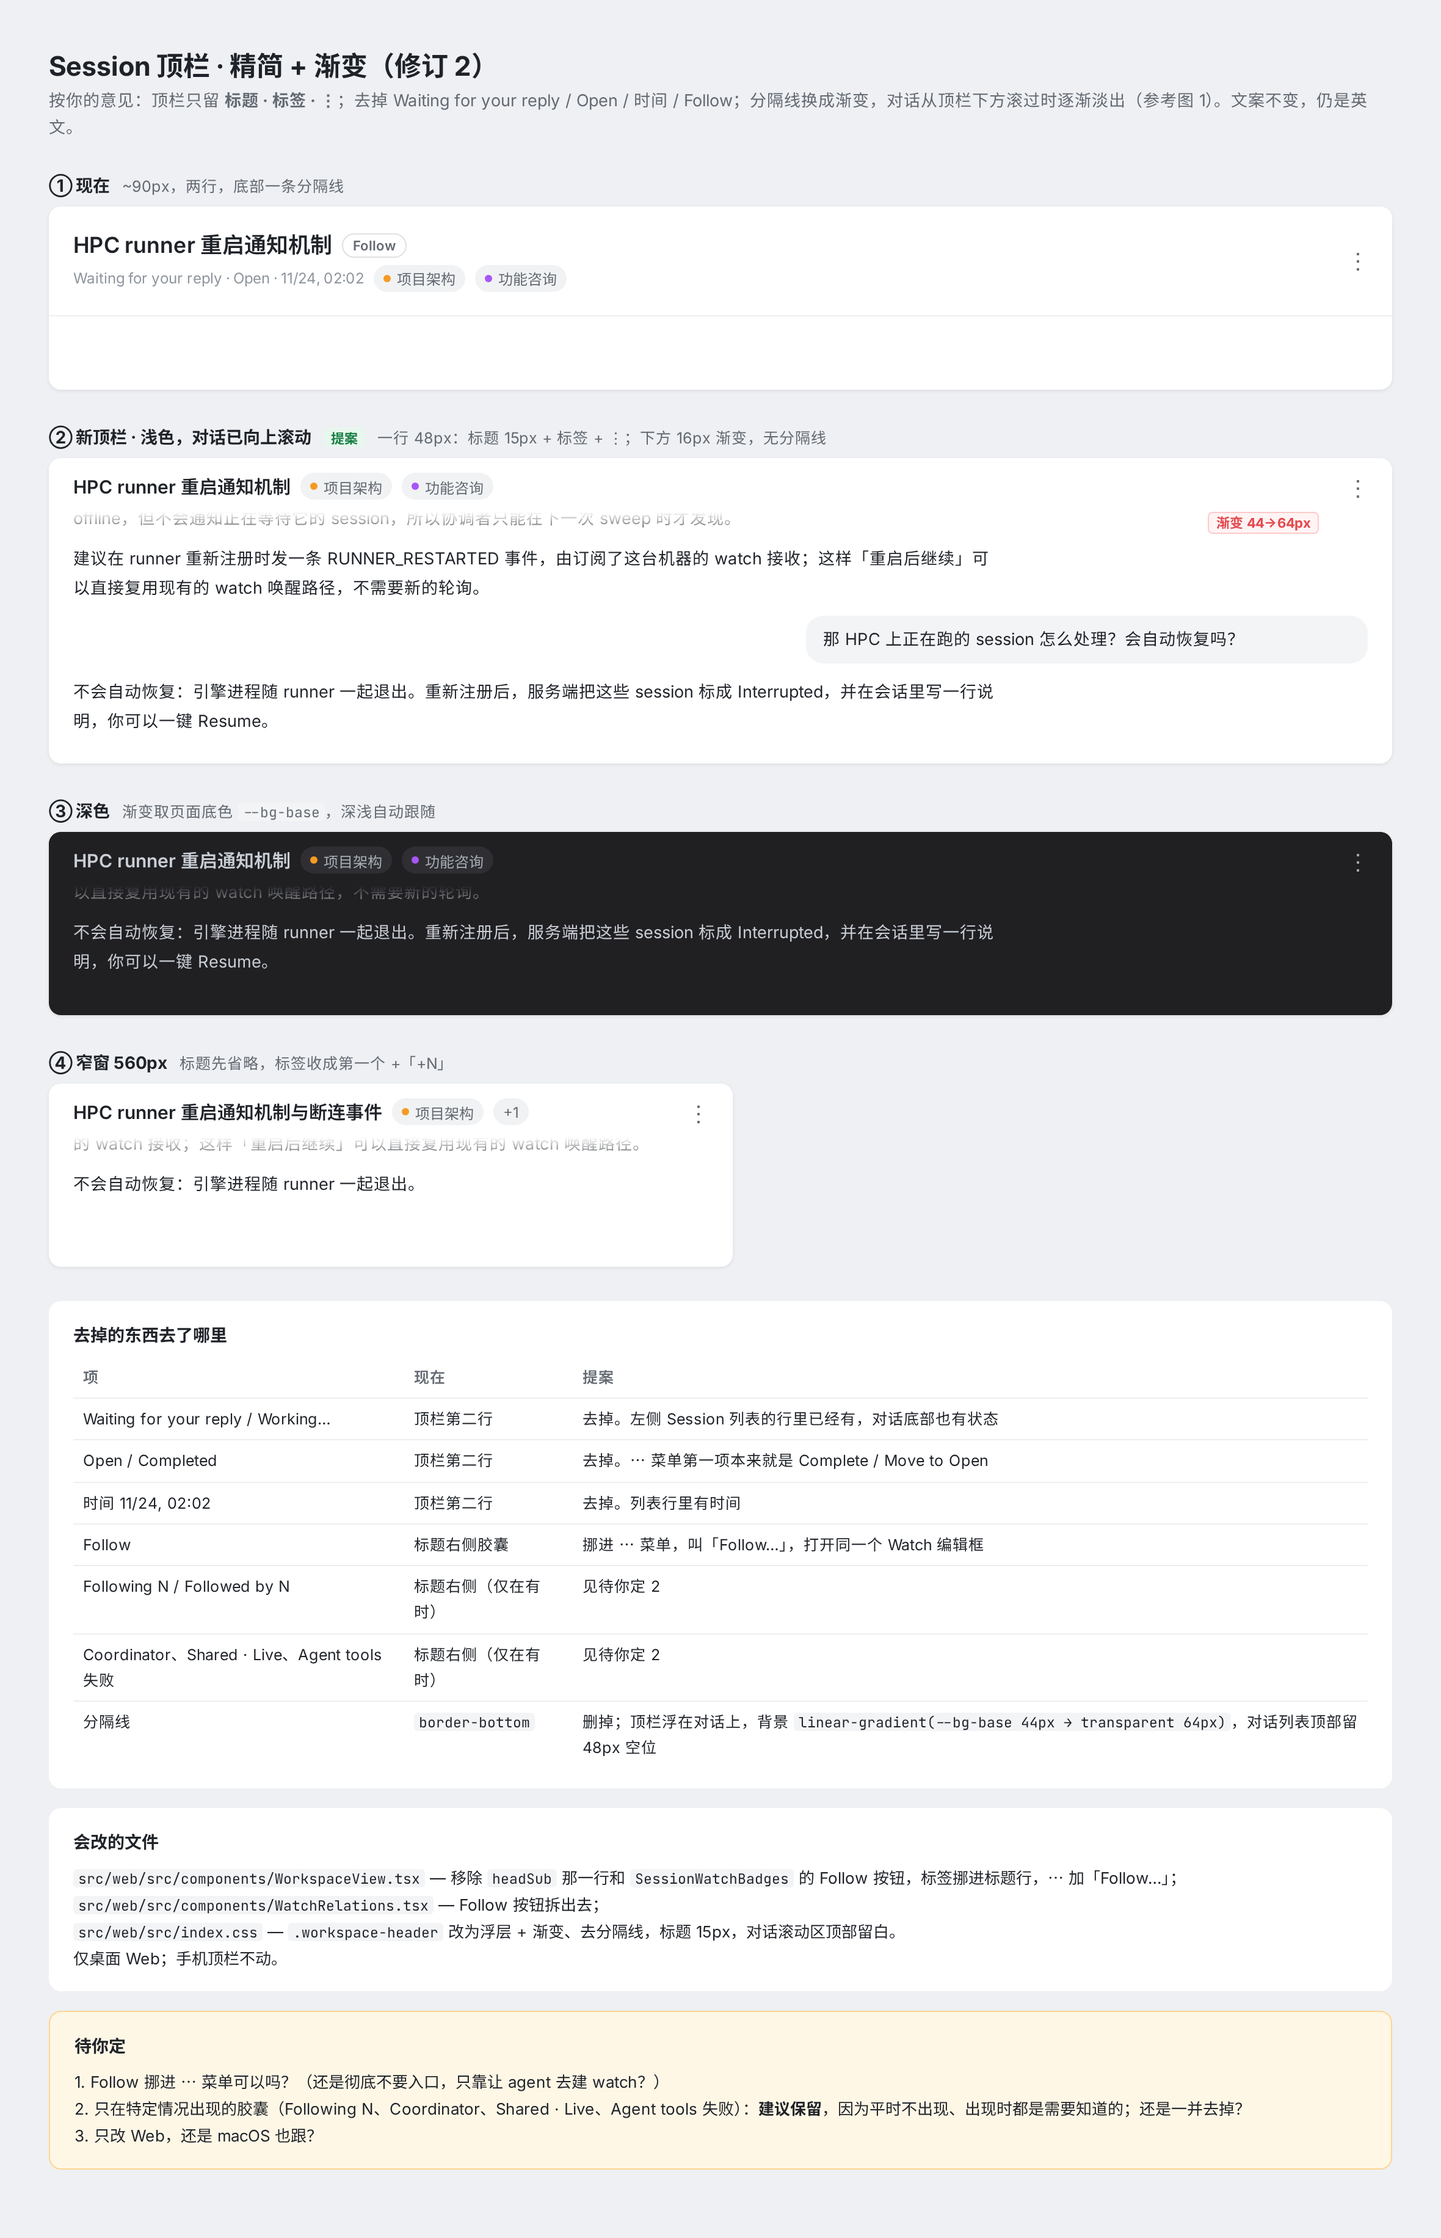
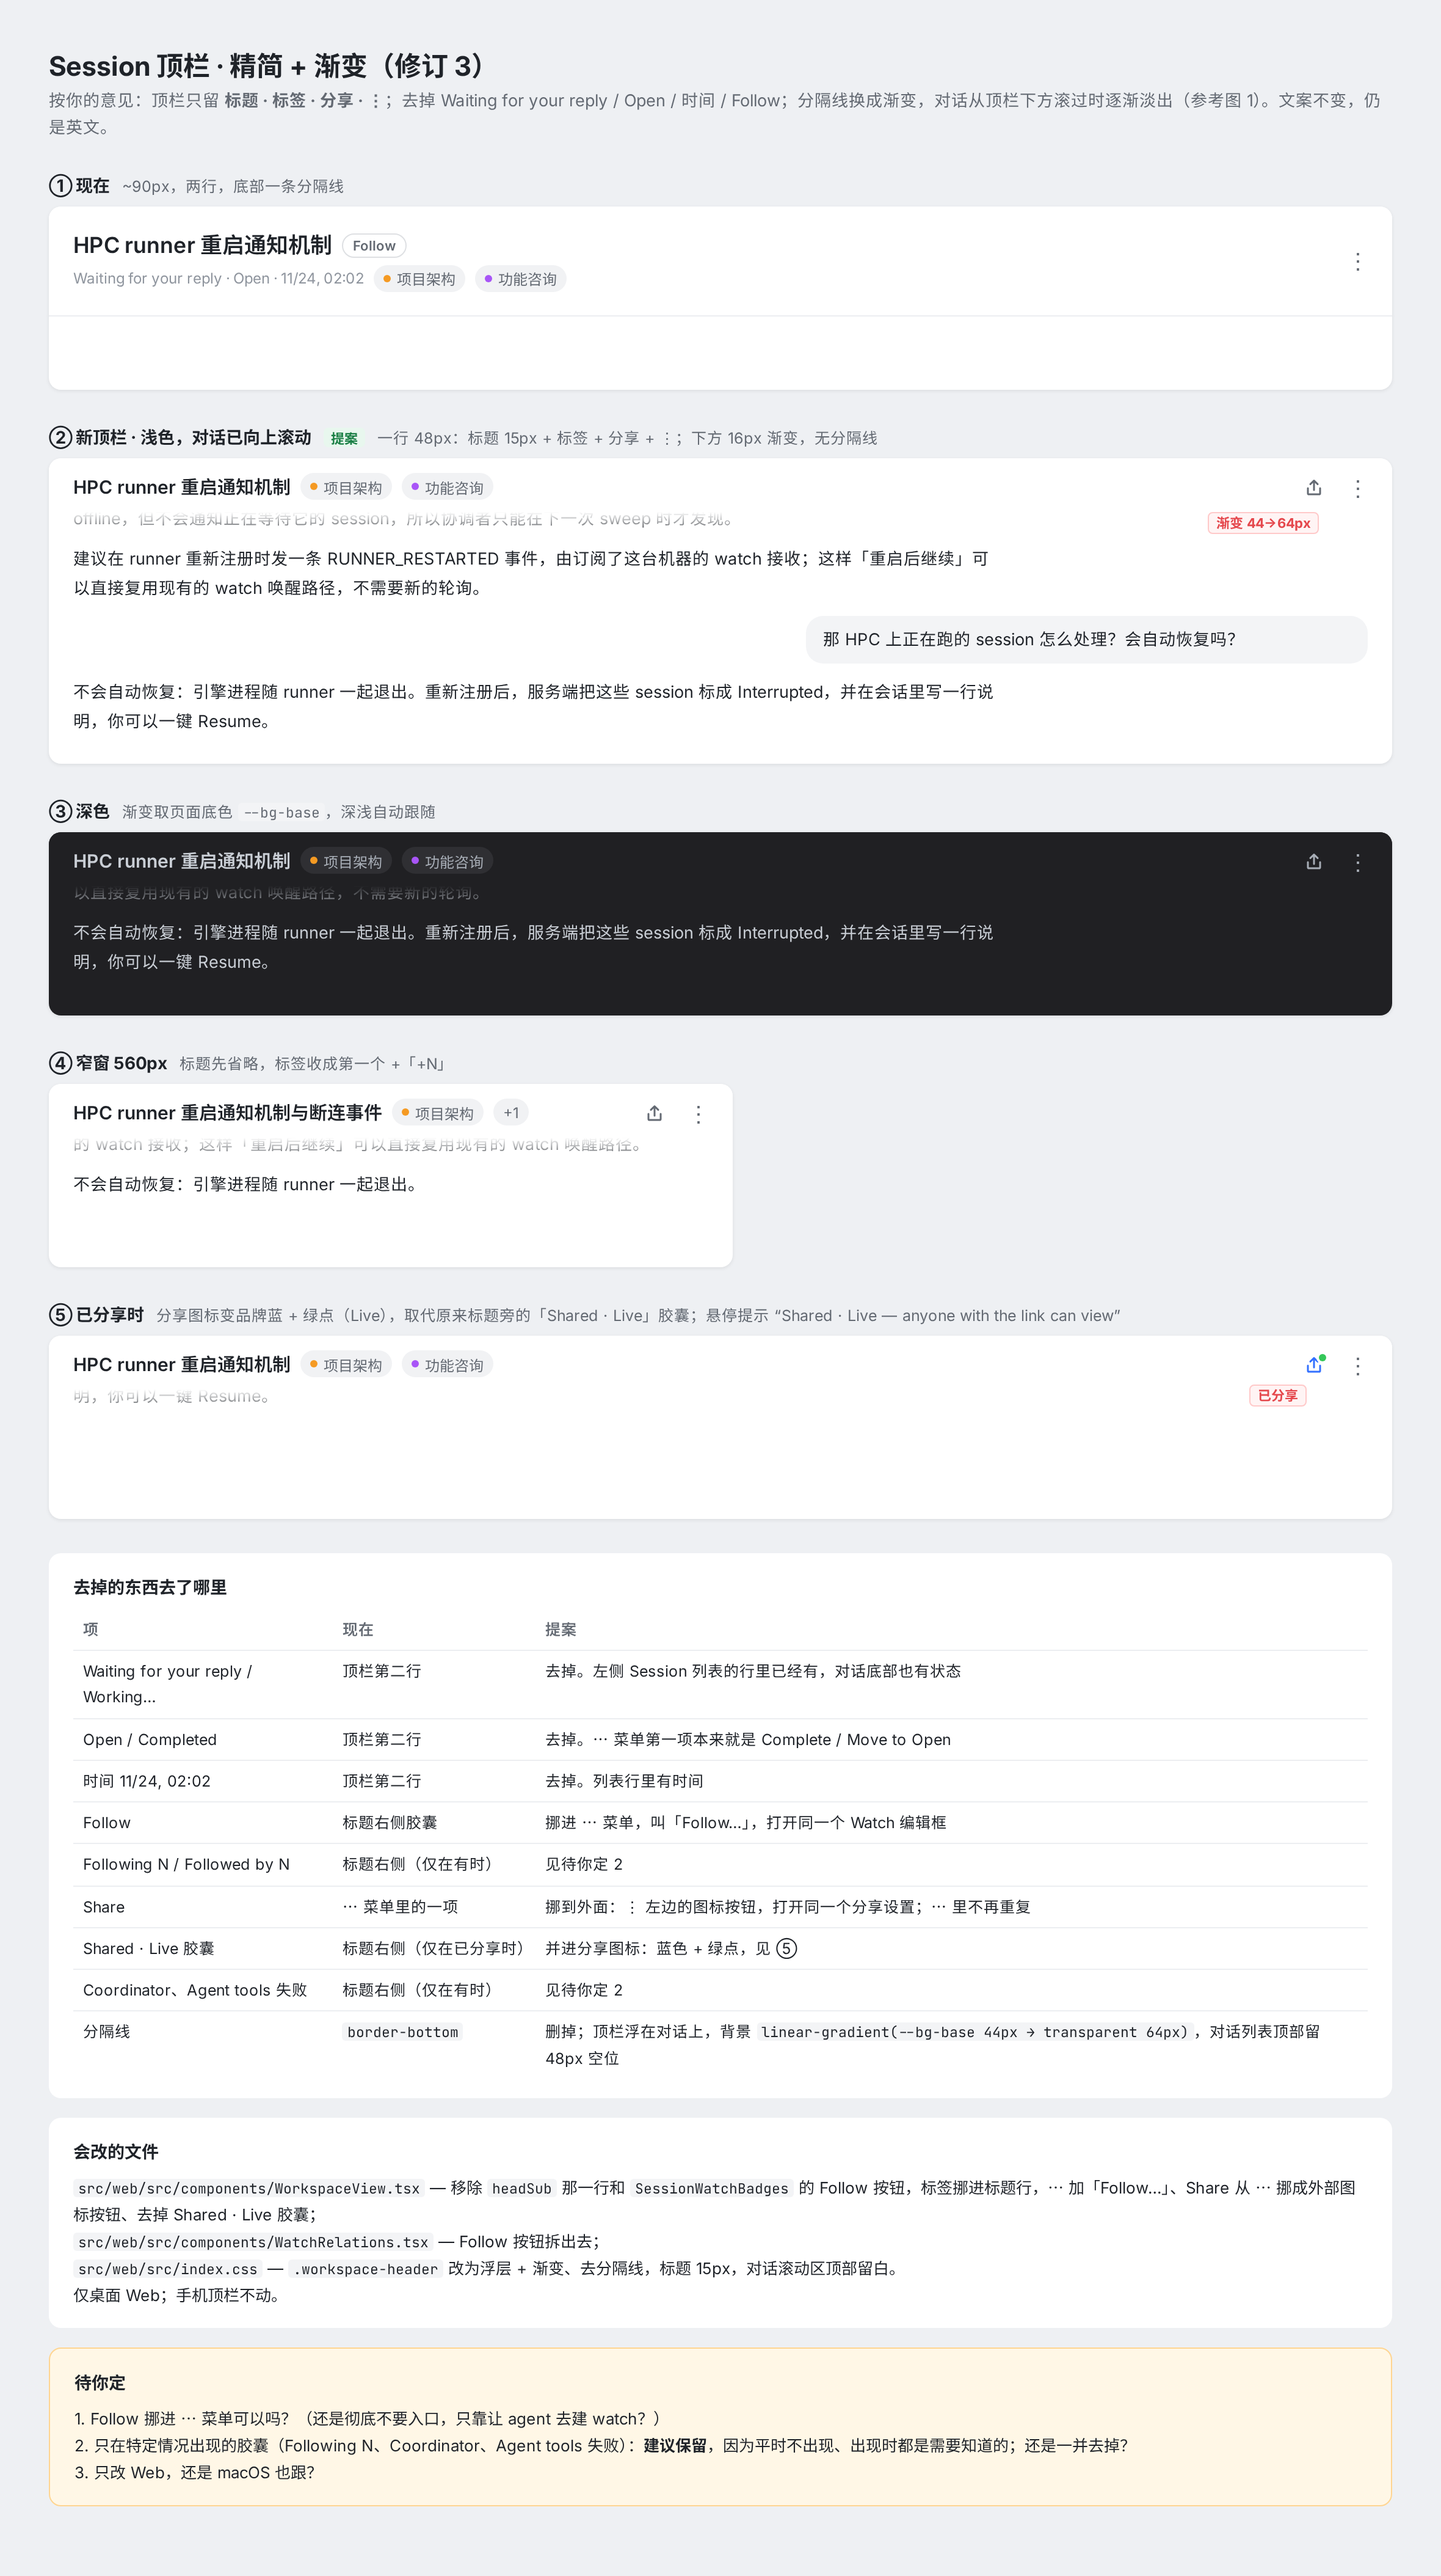
docs(mocks): session header revision 3, Share as a button beside ⋮
The owner wants Share out of the ⋯ menu; the icon turns blue with a Live dot once shared and replaces the Shared · Live pill.

diff --git a/docs/mocks/session-header-compact/board.html b/docs/mocks/session-header-compact/board.html
@@ -21,6 +21,8 @@ h1{font-size:22px;margin:0 0 4px}
 .chip{flex:none;display:inline-flex;align-items:center;gap:5px;padding:0 8px;height:22px;border-radius:999px;background:var(--chip);color:var(--t2);font-size:12px}
 .dot{width:6px;height:6px;border-radius:50%}
 .sp{flex:1}
+.share{flex:none;position:relative;width:28px;height:24px;display:grid;place-items:center;color:var(--t2);border-radius:6px}
+.share.on{color:#3370ff}.share.on i{position:absolute;right:4px;top:3px;width:6px;height:6px;border-radius:50%;background:#34c759;box-shadow:0 0 0 2px var(--bg)}
 .kebab{flex:none;width:28px;height:24px;display:grid;place-items:center;color:var(--t2);font-size:18px}
 .old{font-size:12px;color:var(--t3);white-space:nowrap}
 .pill{flex:none;height:20px;padding:0 8px;border:1px solid #dee0e3;border-radius:999px;font-size:11px;font-weight:600;color:var(--t2);display:inline-flex;align-items:center}
@@ -37,8 +39,8 @@ th{color:#646a73;font-weight:600;border-top:0}
 code{font-family:'JetBrains Mono',monospace;font-size:11.5px;background:#f3f4f6;padding:0 4px;border-radius:3px}
 .pend{background:#fff7e6;border:1px solid #ffd591}
 </style></head><body><div class="board">
-<h1>Session 顶栏 · 精简 + 渐变（修订 2）</h1>
-<p class="lead">按你的意见：顶栏只留 <b>标题 · 标签 · ⋮</b>；去掉 Waiting for your reply / Open / 时间 / Follow；分隔线换成渐变，对话从顶栏下方滚过时逐渐淡出（参考图 1）。文案不变，仍是英文。</p>
+<h1>Session 顶栏 · 精简 + 渐变（修订 3）</h1>
+<p class="lead">按你的意见：顶栏只留 <b>标题 · 标签 · 分享 · ⋮</b>；去掉 Waiting for your reply / Open / 时间 / Follow；分隔线换成渐变，对话从顶栏下方滚过时逐渐淡出（参考图 1）。文案不变，仍是英文。</p>
 
 <div class="frame"><div class="ftitle">① 现在 <small>~90px，两行，底部一条分隔线</small></div>
 <div class="pane short">
@@ -48,7 +50,7 @@ code{font-family:'JetBrains Mono',monospace;font-size:11.5px;background:#f3f4f6;
  </div><span class="kebab">⋮</span></div>
 </div></div>
 
-<div class="frame"><div class="ftitle">② 新顶栏 · 浅色，对话已向上滚动 <span class="rec">提案</span><small>一行 48px：标题 15px + 标签 + ⋮；下方 16px 渐变，无分隔线</small></div>
+<div class="frame"><div class="ftitle">② 新顶栏 · 浅色，对话已向上滚动 <span class="rec">提案</span><small>一行 48px：标题 15px + 标签 + 分享 + ⋮；下方 16px 渐变，无分隔线</small></div>
 <div class="pane">
  <div class="tr">
   <p>第一步先确认 runner 重启时 apiserver 能否收到断连事件。现在 link 断开后 gateway 会在 30 秒内把 runner 标成 offline，但不会通知正在等待它的 session，所以协调者只能在下一次 sweep 时才发现。</p>
@@ -58,7 +60,7 @@ code{font-family:'JetBrains Mono',monospace;font-size:11.5px;background:#f3f4f6;
  </div>
  <div class="hdr fade"><span class="name">HPC runner 重启通知机制</span>
   <span class="chip"><span class="dot" style="background:#f59a23"></span>项目架构</span><span class="chip"><span class="dot" style="background:#a855f7"></span>功能咨询</span>
-  <span class="sp"></span><span class="kebab">⋮</span></div>
+  <span class="sp"></span><span class="share"><svg width="16" height="16" viewBox="0 0 16 16" fill="none" stroke="currentColor" stroke-width="1.5" stroke-linecap="round" stroke-linejoin="round"><path d="M8 10V2.5M5 5.2 8 2.3l3 2.9"/><path d="M3 8.5v4.2c0 .5.4.8.8.8h8.4c.4 0 .8-.3.8-.8V8.5"/></svg></span><span class="kebab">⋮</span></div>
  <span class="mark" style="right:60px;top:44px">渐变 44→64px</span>
 </div></div>
 
@@ -70,7 +72,7 @@ code{font-family:'JetBrains Mono',monospace;font-size:11.5px;background:#f3f4f6;
  </div>
  <div class="hdr fade"><span class="name">HPC runner 重启通知机制</span>
   <span class="chip"><span class="dot" style="background:#f59a23"></span>项目架构</span><span class="chip"><span class="dot" style="background:#a855f7"></span>功能咨询</span>
-  <span class="sp"></span><span class="kebab">⋮</span></div>
+  <span class="sp"></span><span class="share"><svg width="16" height="16" viewBox="0 0 16 16" fill="none" stroke="currentColor" stroke-width="1.5" stroke-linecap="round" stroke-linejoin="round"><path d="M8 10V2.5M5 5.2 8 2.3l3 2.9"/><path d="M3 8.5v4.2c0 .5.4.8.8.8h8.4c.4 0 .8-.3.8-.8V8.5"/></svg></span><span class="kebab">⋮</span></div>
 </div></div>
 
 <div class="frame"><div class="ftitle">④ 窄窗 560px <small>标题先省略，标签收成第一个 +「+N」</small></div>
@@ -78,7 +80,16 @@ code{font-family:'JetBrains Mono',monospace;font-size:11.5px;background:#f3f4f6;
  <div class="tr"><p>建议在 runner 重新注册时发一条 RUNNER_RESTARTED 事件，由订阅了这台机器的 watch 接收；这样「重启后继续」可以直接复用现有的 watch 唤醒路径。</p><p>不会自动恢复：引擎进程随 runner 一起退出。</p></div>
  <div class="hdr fade"><span class="name">HPC runner 重启通知机制与断连事件</span>
   <span class="chip"><span class="dot" style="background:#f59a23"></span>项目架构</span><span class="chip">+1</span>
-  <span class="sp"></span><span class="kebab">⋮</span></div>
+  <span class="sp"></span><span class="share"><svg width="16" height="16" viewBox="0 0 16 16" fill="none" stroke="currentColor" stroke-width="1.5" stroke-linecap="round" stroke-linejoin="round"><path d="M8 10V2.5M5 5.2 8 2.3l3 2.9"/><path d="M3 8.5v4.2c0 .5.4.8.8.8h8.4c.4 0 .8-.3.8-.8V8.5"/></svg></span><span class="kebab">⋮</span></div>
+</div></div>
+
+<div class="frame"><div class="ftitle">⑤ 已分享时 <small>分享图标变品牌蓝 + 绿点（Live），取代原来标题旁的「Shared · Live」胶囊；悬停提示 “Shared · Live — anyone with the link can view”</small></div>
+<div class="pane short">
+ <div class="tr"><p>不会自动恢复：引擎进程随 runner 一起退出。重新注册后，服务端把这些 session 标成 Interrupted，并在会话里写一行说明，你可以一键 Resume。</p></div>
+ <div class="hdr fade"><span class="name">HPC runner 重启通知机制</span>
+  <span class="chip"><span class="dot" style="background:#f59a23"></span>项目架构</span><span class="chip"><span class="dot" style="background:#a855f7"></span>功能咨询</span>
+  <span class="sp"></span><span class="share on"><svg width="16" height="16" viewBox="0 0 16 16" fill="none" stroke="currentColor" stroke-width="1.5" stroke-linecap="round" stroke-linejoin="round"><path d="M8 10V2.5M5 5.2 8 2.3l3 2.9"/><path d="M3 8.5v4.2c0 .5.4.8.8.8h8.4c.4 0 .8-.3.8-.8V8.5"/></svg><i></i></span><span class="kebab">⋮</span></div>
+ <span class="mark" style="right:70px;top:40px">已分享</span>
 </div></div>
 
 <div class="note"><h3>去掉的东西去了哪里</h3><table>
@@ -88,18 +99,20 @@ code{font-family:'JetBrains Mono',monospace;font-size:11.5px;background:#f3f4f6;
 <tr><td>时间 11/24, 02:02</td><td>顶栏第二行</td><td>去掉。列表行里有时间</td></tr>
 <tr><td>Follow</td><td>标题右侧胶囊</td><td>挪进 ⋯ 菜单，叫「Follow…」，打开同一个 Watch 编辑框</td></tr>
 <tr><td>Following N / Followed by N</td><td>标题右侧（仅在有时）</td><td>见待你定 2</td></tr>
-<tr><td>Coordinator、Shared · Live、Agent tools 失败</td><td>标题右侧（仅在有时）</td><td>见待你定 2</td></tr>
+<tr><td>Share</td><td>⋯ 菜单里的一项</td><td>挪到外面：⋮ 左边的图标按钮，打开同一个分享设置；⋯ 里不再重复</td></tr>
+<tr><td>Shared · Live 胶囊</td><td>标题右侧（仅在已分享时）</td><td>并进分享图标：蓝色 + 绿点，见 ⑤</td></tr>
+<tr><td>Coordinator、Agent tools 失败</td><td>标题右侧（仅在有时）</td><td>见待你定 2</td></tr>
 <tr><td>分隔线</td><td><code>border-bottom</code></td><td>删掉；顶栏浮在对话上，背景 <code>linear-gradient(--bg-base 44px → transparent 64px)</code>，对话列表顶部留 48px 空位</td></tr>
 </table></div>
 
 <div class="note"><h3>会改的文件</h3>
-<code>src/web/src/components/WorkspaceView.tsx</code> — 移除 <code>headSub</code> 那一行和 <code>SessionWatchBadges</code> 的 Follow 按钮，标签挪进标题行，⋯ 加「Follow…」；<br>
+<code>src/web/src/components/WorkspaceView.tsx</code> — 移除 <code>headSub</code> 那一行和 <code>SessionWatchBadges</code> 的 Follow 按钮，标签挪进标题行，⋯ 加「Follow…」、Share 从 ⋯ 挪成外部图标按钮、去掉 Shared · Live 胶囊；<br>
 <code>src/web/src/components/WatchRelations.tsx</code> — Follow 按钮拆出去；<br>
 <code>src/web/src/index.css</code> — <code>.workspace-header</code> 改为浮层 + 渐变、去分隔线，标题 15px，对话滚动区顶部留白。<br>
 仅桌面 Web；手机顶栏不动。</div>
 
 <div class="note pend"><h3>待你定</h3>
 1. Follow 挪进 ⋯ 菜单可以吗？（还是彻底不要入口，只靠让 agent 去建 watch？）<br>
-2. 只在特定情况出现的胶囊（Following N、Coordinator、Shared · Live、Agent tools 失败）：<b>建议保留</b>，因为平时不出现、出现时都是需要知道的；还是一并去掉？<br>
+2. 只在特定情况出现的胶囊（Following N、Coordinator、Agent tools 失败）：<b>建议保留</b>，因为平时不出现、出现时都是需要知道的；还是一并去掉？<br>
 3. 只改 Web，还是 macOS 也跟？</div>
 </div></body></html>
